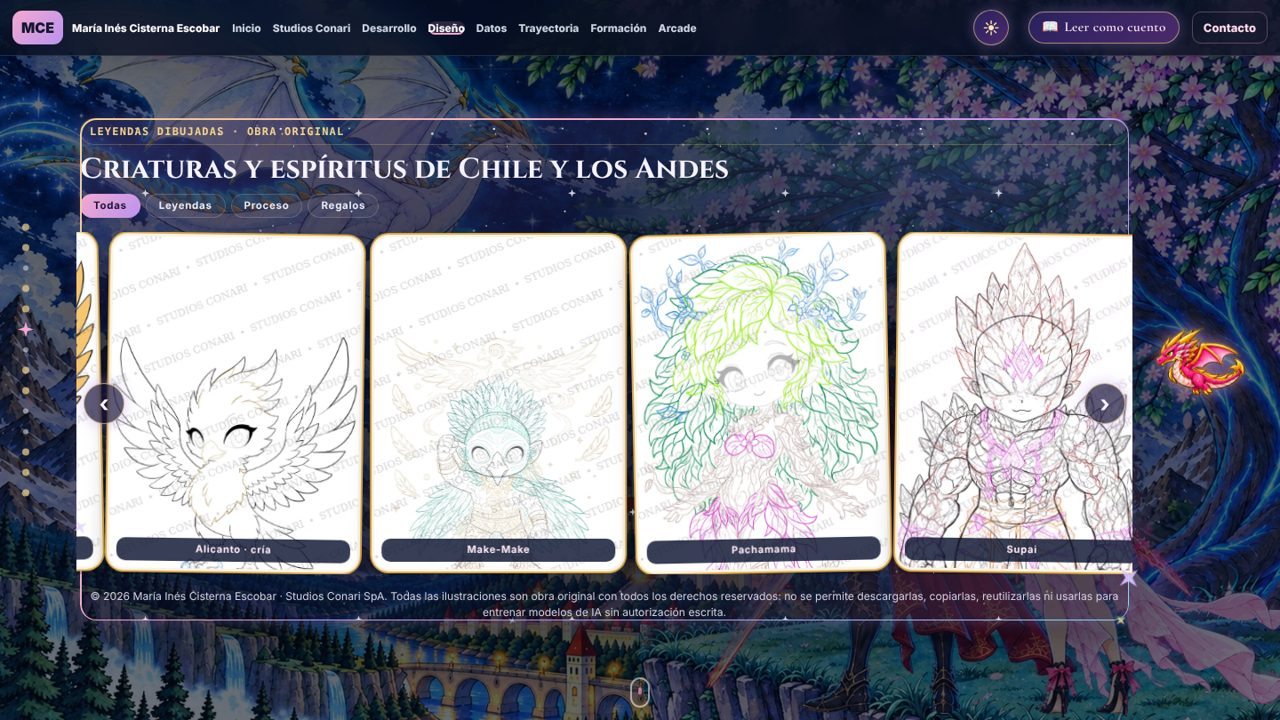
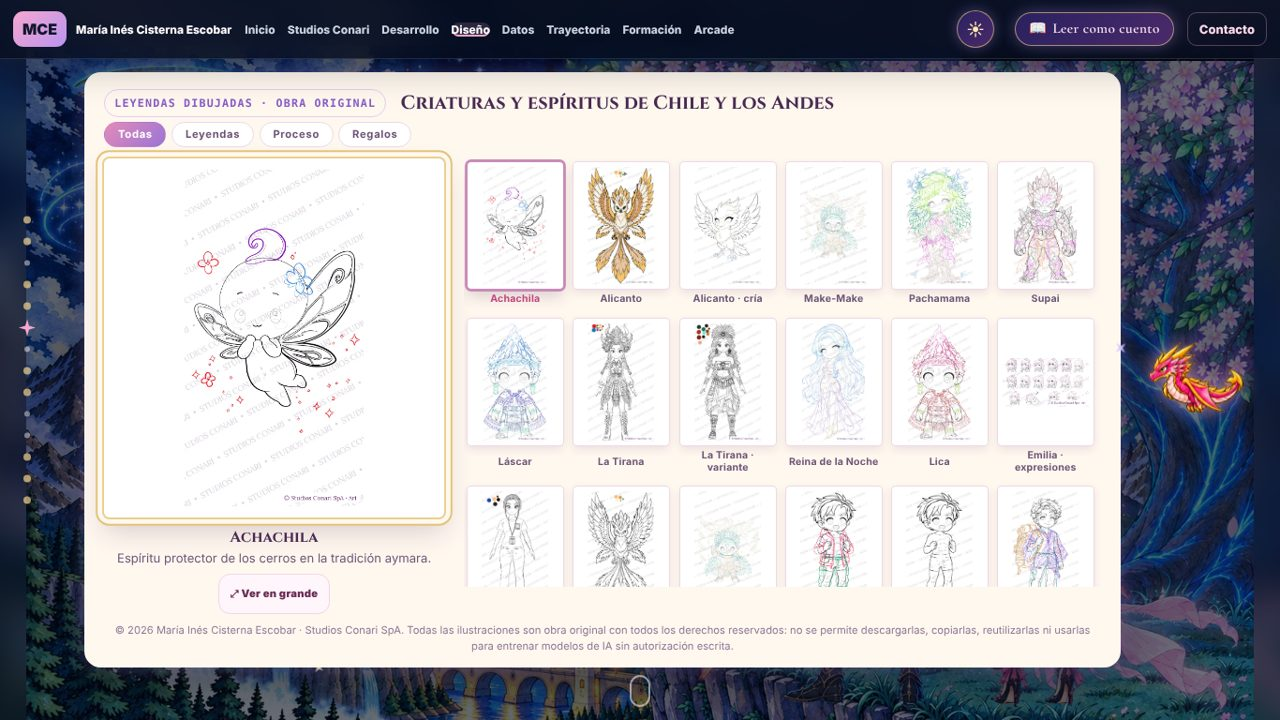
El libro sobre una galaxia: la de noche y una versión de día en el mismo estilo; capturas del README al día

diff --git a/libro.css b/libro.css
@@ -699,7 +699,7 @@ footer .derechos a{color:var(--rosa);text-decoration:underline}
 /* cielo */
 .escena-fondo{transition:background 1.2s}
 .escena-cielo{inset:0;background:none;filter:none;transform:none;animation:none;transition:opacity 1.2s;
-  background:radial-gradient(ellipse at 30% 25%,#3a2256 0%,transparent 55%),radial-gradient(ellipse at 75% 80%,#1d2f5c 0%,transparent 60%),radial-gradient(ellipse at 50% 45%,#121a3c 0%,#060a1c 75%)}
+  background:#0b0a2a url("assets/fondo/galaxia-noche.webp") center/cover no-repeat}
 .escena-estrellas{position:absolute;inset:0;width:100%;height:100%}
 .escena-nubes{position:absolute;inset:0;opacity:0;transition:opacity 1.2s;pointer-events:none}
 .escena-nubes i{position:absolute;width:38vw;height:12vw;border-radius:50%;background:radial-gradient(ellipse,rgba(255,255,255,.95),rgba(255,255,255,0) 70%);filter:blur(6px);animation:nube 60s linear infinite}
@@ -707,7 +707,7 @@ footer .derechos a{color:var(--rosa);text-decoration:underline}
 .escena-nubes i:nth-child(3){top:62%;left:-50vw;animation-duration:70s;animation-delay:-45s;opacity:.7}.escena-nubes i:nth-child(4){top:80%;left:-40vw;animation-duration:95s;animation-delay:-10s}
 @keyframes nube{to{transform:translateX(180vw)}}
 html[data-cielo="dia"] .escena-fondo{background:#cfe6ff}
-html[data-cielo="dia"] .escena-cielo{background:radial-gradient(circle at 82% 14%,rgba(255,244,190,.95) 0 5%,rgba(255,226,150,.5) 9%,transparent 22%),linear-gradient(180deg,#9fd3ff 0%,#c9e3ff 38%,#ffe3f0 78%,#fff2e2 100%)}
+html[data-cielo="dia"] .escena-cielo{background:#c9c6f2 url("assets/fondo/galaxia-dia.webp") center/cover no-repeat}
 html[data-cielo="dia"] .escena-nubes{opacity:1}
 html[data-cielo="dia"] .escena-niebla{background:radial-gradient(ellipse 55% 50% at 50% 52%,rgba(255,255,255,.4),transparent 70%)}
 html[data-cielo="dia"] .escena-pista{color:#6b2d5c;text-shadow:0 0 10px #fff}

diff --git a/index.html b/index.html
@@ -22,8 +22,8 @@
   <link rel="preconnect" href="https://fonts.googleapis.com"><link rel="preconnect" href="https://fonts.gstatic.com" crossorigin>
   <link rel="stylesheet" href="https://fonts.googleapis.com/css2?family=Cinzel:wght@500;700&family=Mali:wght@400;600;700&family=Cormorant+Garamond:ital,wght@0,500;0,600;1,500&display=swap">
   <link rel="stylesheet" href="styles.css?v=20261002a">
-  <link rel="stylesheet" href="libro.css?v=20261013b">
-  <link rel="stylesheet" href="tema-claro.css?v=20261016a">
+  <link rel="stylesheet" href="libro.css?v=20261016a">
+  <link rel="stylesheet" href="tema-claro.css?v=20261016b">
   <link rel="stylesheet" href="intro.css?v=20260929f">
   <link rel="stylesheet" href="salud.css?v=20261016b">
   <link rel="stylesheet" href="escenas.css?v=20261108l">

diff --git a/tema-claro.css b/tema-claro.css
@@ -41,7 +41,7 @@ html[data-tema="claro"] .contact-section{background:linear-gradient(180deg,rgba(
 html[data-tema="claro"] .contact-buttons a,html[data-tema="claro"] .contact-section a{color:var(--white);border-color:rgba(70,45,100,.28)}
 html[data-tema="claro"] footer{color:var(--text)}
 /* el escenario del libro también amanece */
-html[data-tema="claro"] .escena-cielo{background-image:url("assets/fondo/dia.webp")}
+html[data-tema="claro"] .escena-cielo{background-image:url("assets/fondo/galaxia-dia.webp")}
 html[data-tema="claro"] :is(.dev-tab,.game-tab):not(.active){background:rgba(255,255,255,.62);color:var(--text)}
 html[data-tema="claro"] p.official-slogan{color:#9c7015!important}
 html[data-tema="claro"] .credential-gallery a,html[data-tema="claro"] .derechos a{color:var(--pink)}
